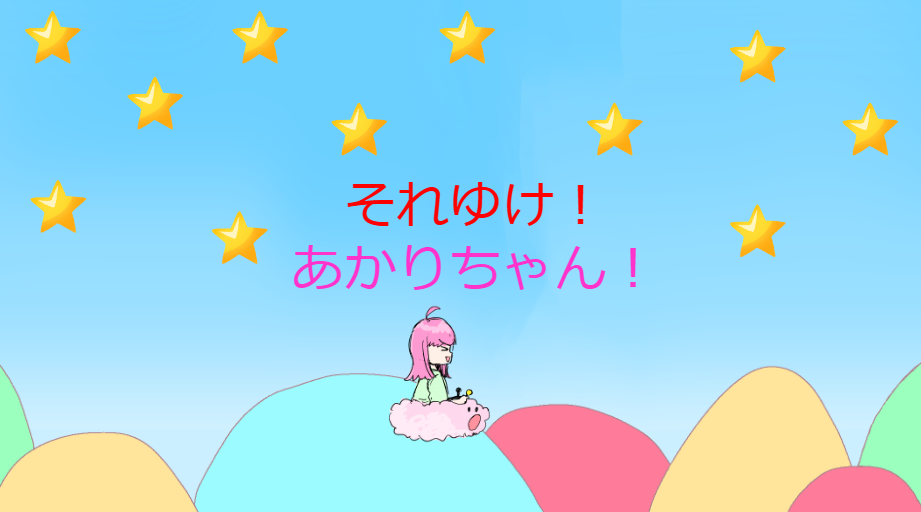
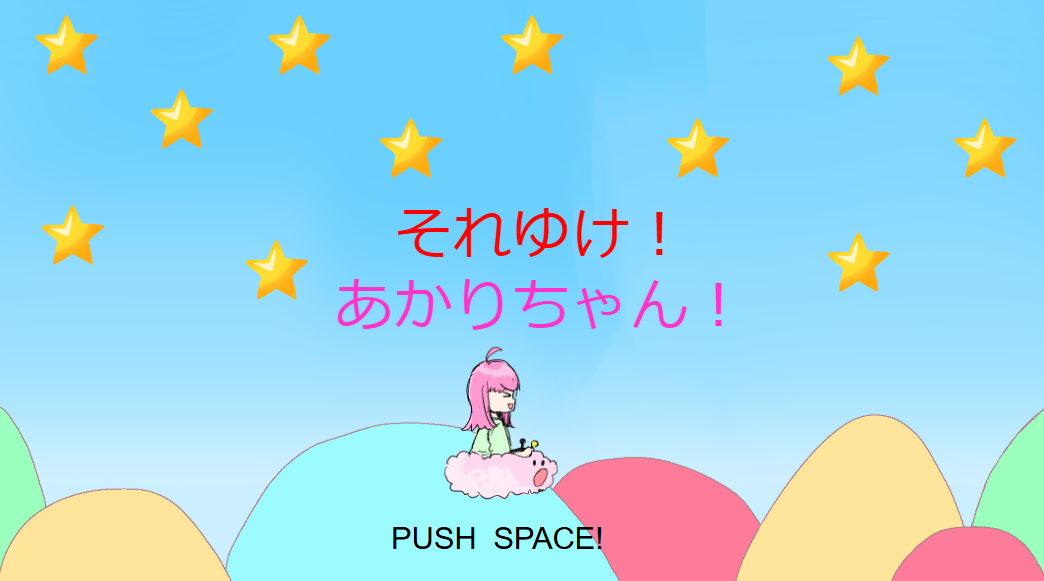
title に関してのプログラム

diff --git a/Project/GameProject/main.cpp b/Project/GameProject/main.cpp
@@ -130,12 +130,16 @@ void Init(void)
 	ADD_RESOURCE("Title", CImage::CreateImage("Image/title.png"));
 	ADD_RESOURCE("Result", CImage::CreateImage("Image/Result.png"));
 	ADD_RESOURCE("CoolTime", CImage::CreateImage("Image/gauge.png"));
+	ADD_RESOURCE("Enemyhyouzi", CImage::CreateImage("Image/Enemy.png", enemy_anim_data, 32, 32));
+	ADD_RESOURCE("Starhyouzi", CImage::CreateImage("Image/Star.png", enemy_anim_data, 800, 764));
+	ADD_RESOURCE("Flowerhyouzi", CImage::CreateImage("Image/Flower.png", Flower::ANIM_DATA, 32, 32));
 	SOUND("Player_Attackv")->Load("Sound/Player_Attackv.mp3", 1);
 	SOUND("Player_Damage")->Load("Sound/Player_Damage.mp3", 1);
 	SOUND("Player_Jump")->Load("Sound/Player_Jump.wav", 1);
 	SOUND("Player_Attack")->Load("Sound/Player_Attack.mp3", 1);
 	SOUND("Enemy_Death")->Load("Sound/Enemy_Death.mp3", 1);
 	SOUND("Title")->Load("Sound/TitleBGM.mp3", 1);
+	SOUND("GameBGM")->Load("Sound/GameBGM.mp3", 1);
 	//new Game();
 	new Title();
 }

diff --git a/Project/GameProject/Game/Game.h b/Project/GameProject/Game/Game.h
@@ -4,6 +4,9 @@
 class Game : public Task
 {
 public:
+	CImage m_Enemyhyouzi;
+	CImage m_Starhyouzi;
+	CImage m_Flowerhyouzi;
 	 CFont m_Game_text;
 	Game();
 	~Game();
